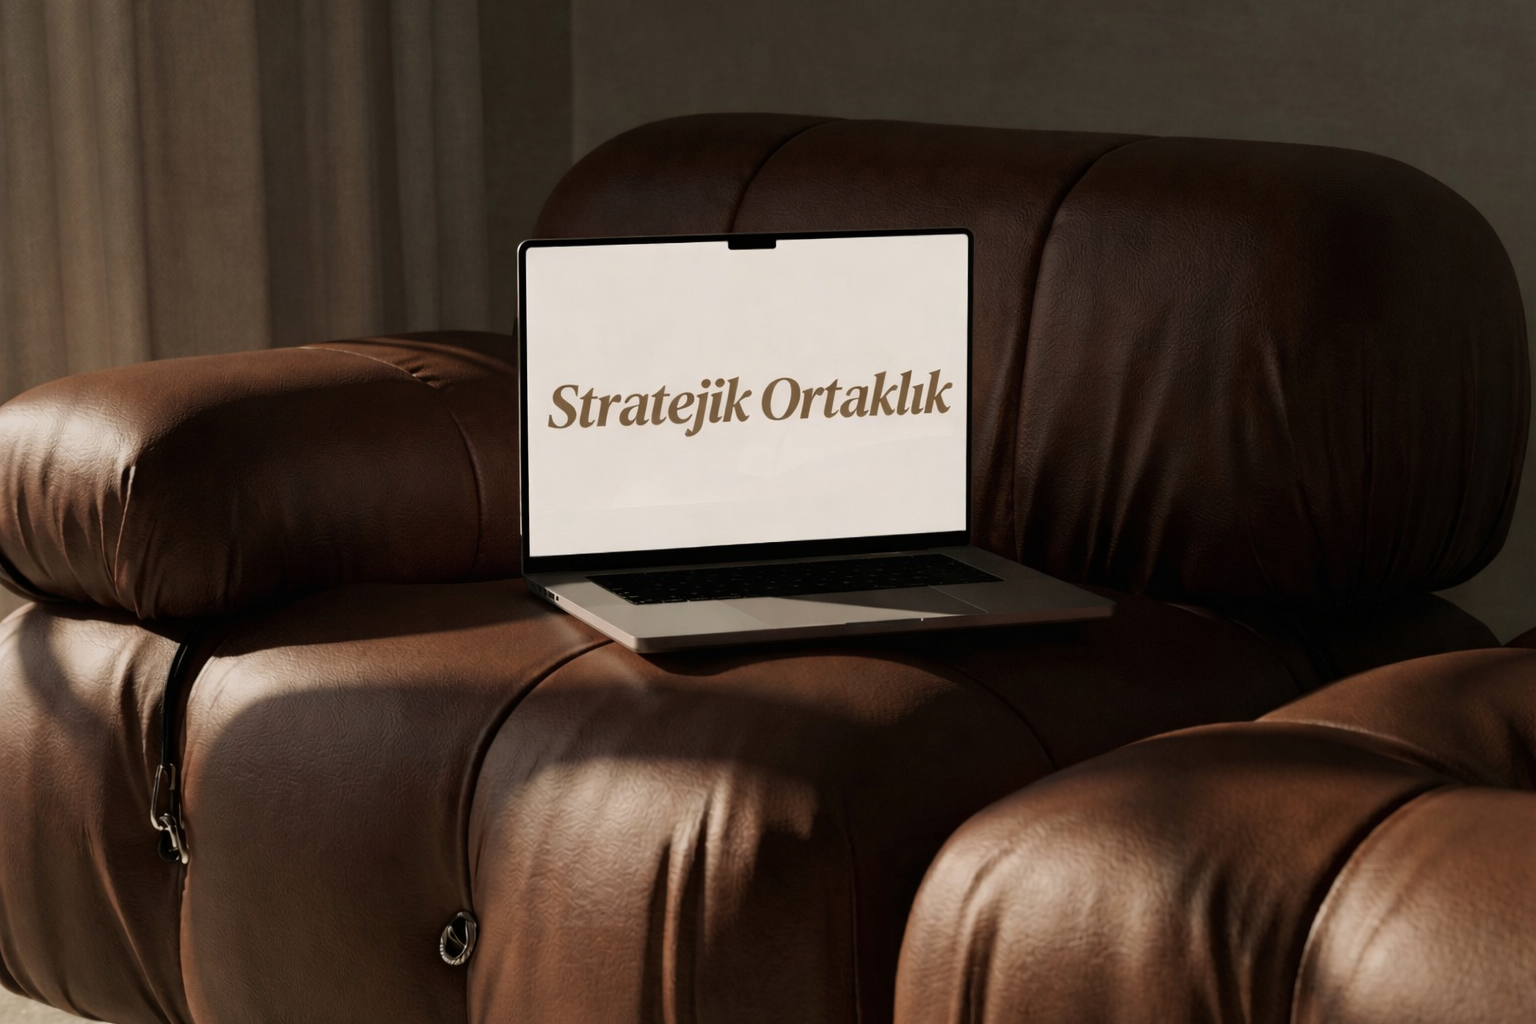
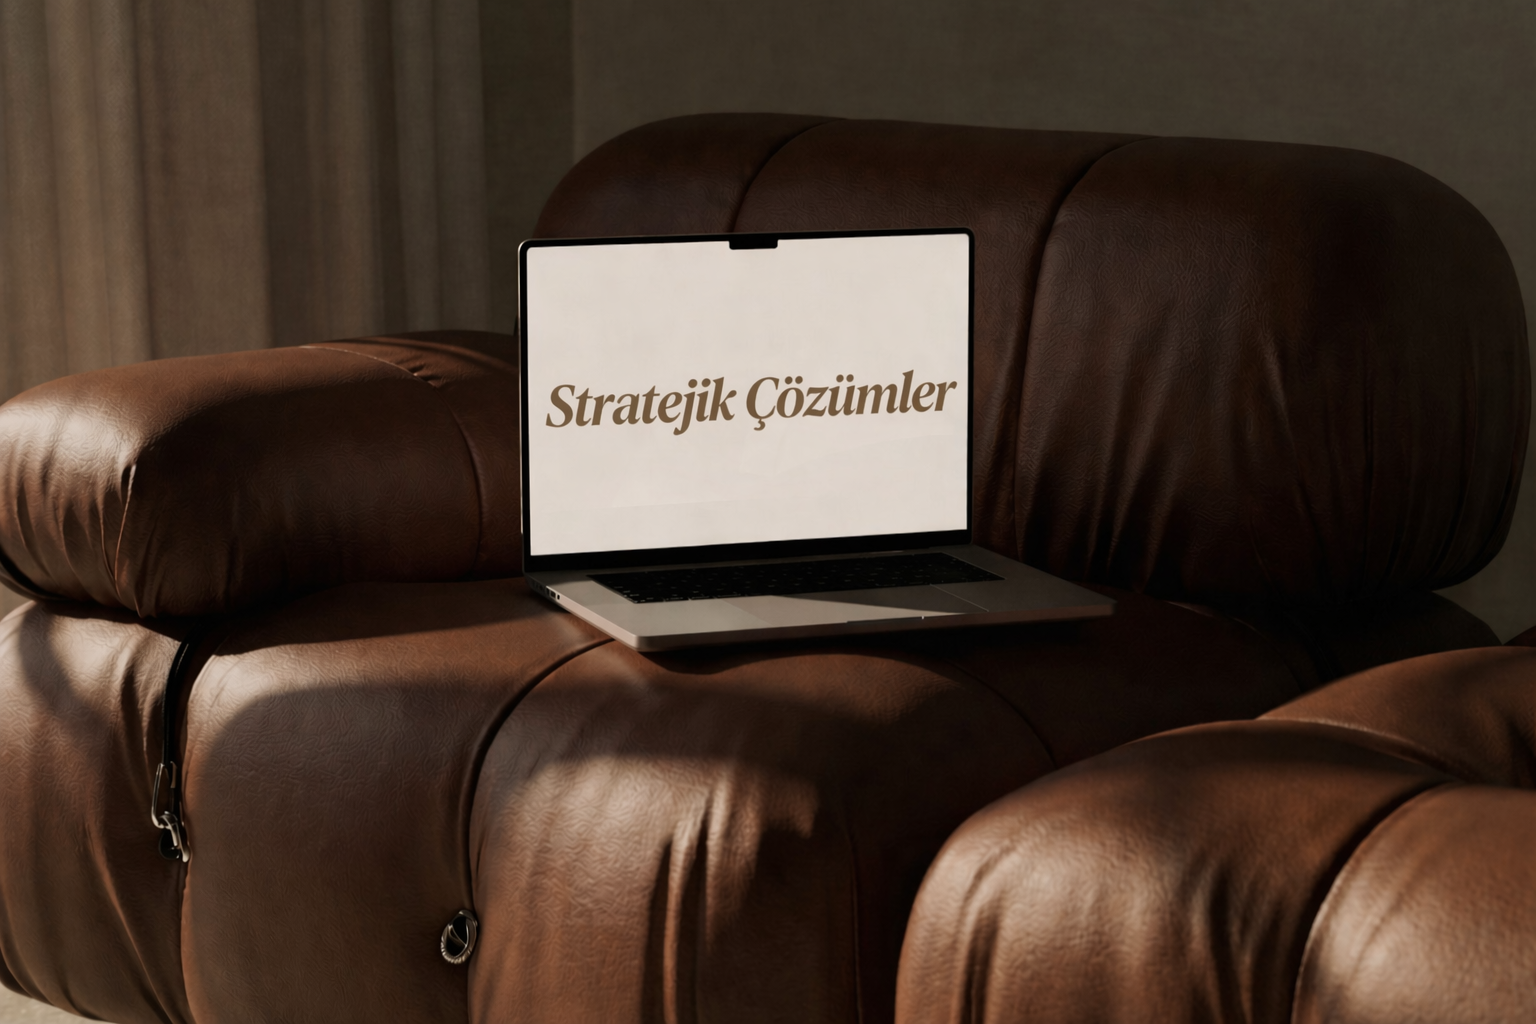
programs page

diff --git a/src/components/programs/program-scenes.tsx b/src/components/programs/program-scenes.tsx
@@ -88,6 +88,16 @@ export function ProgramHeroScene({ program }: ProgramHeroSceneProps) {
     () => [...program.hero.ticker, ...program.hero.ticker],
     [program.hero.ticker],
   );
+  const subtitleWords = program.hero.subtitle.split(" ");
+  const accentWord =
+    program.slug === "program-3" ? subtitleWords[subtitleWords.length - 1] : null;
+  const subtitleLead = accentWord
+    ? subtitleWords.slice(0, -1).join(" ")
+    : program.hero.subtitle;
+  const descriptionParagraphs = program.hero.description
+    .split(/\n\s*\n/)
+    .map((paragraph) => paragraph.replace(/\s*\n\s*/g, " ").trim())
+    .filter(Boolean);
 
   useGSAP(
     () => {
@@ -199,33 +209,41 @@ export function ProgramHeroScene({ program }: ProgramHeroSceneProps) {
       <div className="section-shell">
         <div className="grid min-h-[30rem] lg:grid-cols-[0.92fr_1.08fr]">
           <div>
-            <div className="ml-auto flex h-full w-full max-w-[41rem] flex-col justify-center px-0 py-10 md:py-14 lg:px-10 lg:py-16 xl:px-12">
+            <div className="ml-auto flex h-full w-full max-w-[41rem] flex-col justify-start px-0 py-10 md:py-14 lg:px-10 lg:py-16 xl:px-12">
               <div className="max-w-4xl overflow-hidden">
-                <h1 className="font-display text-[1.85rem] leading-[1.08] sm:text-[2.35rem] md:text-[3.5rem] lg:text-[3.5rem]">
-                  {program.heroTitle.split(" ").map((word) => (
-                    <span
-                      key={`${program.slug}-${word}`}
-                      className="mr-[0.18em] inline-block"
-                      data-hero-word
-                    >
-                      {word}
-                    </span>
-                  ))}
+                <h1 className="max-w-[11.5ch] text-[2.35rem] leading-[0.98] text-foreground sm:text-[3.2rem] md:text-[4.5rem] md:leading-[0.95] lg:text-[4.5rem]">
+                  <span className="font-display" data-hero-word>
+                    {subtitleLead}
+                  </span>
+                  {accentWord ? (
+                    <>
+                      <br />
+                      <span
+                        className="font-display text-primary"
+                        data-hero-word
+                      >
+                        {accentWord}
+                      </span>
+                    </>
+                  ) : null}
                 </h1>
               </div>
-              <p
-                className="mt-5 max-w-2xl whitespace-pre-line text-[1rem] leading-8 text-foreground/78 md:text-[1.02rem]"
+              <div className="mt-10 max-w-[37rem] space-y-5">
+                {descriptionParagraphs.map((paragraph) => (
+                  <p
+                    key={paragraph}
+                    className="text-[1rem] leading-8 text-foreground/72 md:text-[1.02rem]"
+                    data-hero-copy
+                  >
+                    {paragraph}
+                  </p>
+                ))}
+              </div>
+              <div
+                className="mt-10 h-px w-full max-w-[37rem] bg-foreground/12"
                 data-hero-copy
-              >
-                {program.hero.subtitle}
-              </p>
-              <p
-                className="mt-4 max-w-[33rem] whitespace-pre-line text-sm leading-7 text-foreground/60 md:text-[0.98rem] md:leading-8"
-                data-hero-copy
-              >
-                {program.hero.description}
-              </p>
-              <div className="mt-7" data-hero-copy>
+              />
+              <div className="mt-10" data-hero-copy>
                 <SubtleButton href="/gorusme-planlayin" size="lg">
                   {program.hero.ctaLabel}
                   <ArrowRight className="ml-2 h-4 w-4" />

diff --git a/src/content/programs.ts b/src/content/programs.ts
@@ -320,7 +320,6 @@ export const programs: Record<ProgramSlug, ProgramData> = {
       title: "Bu paket sana ne sağlar?",
       cards: [
         {
-          eyebrow: "Yeni Odak",
           title: "DİJİTAL VARLIK",
           description:
             "Sosyal medya ve online kanallarda dönüşüm odaklı, tutarlı bir iz",
@@ -331,7 +330,7 @@ export const programs: Record<ProgramSlug, ProgramData> = {
           description: "Markana özel, ölçeklenebilir sistem",
         },
         {
-          title: "MAKSİMUM KÂRLILIĞI",
+          title: "MAKSİMUM KÂRLILIK",
           description: "Düşük performanslı alanlar elenir, odak artar",
         },
         {
